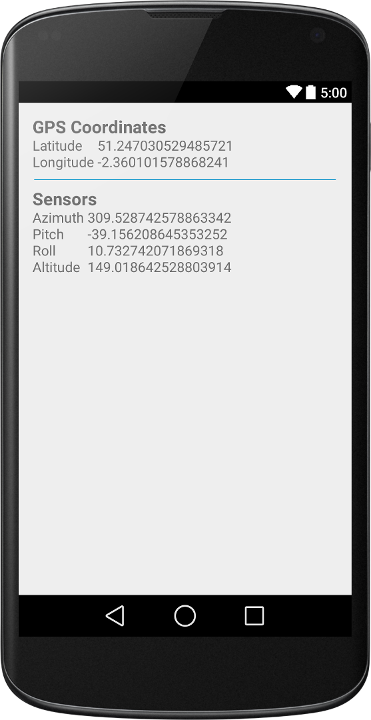
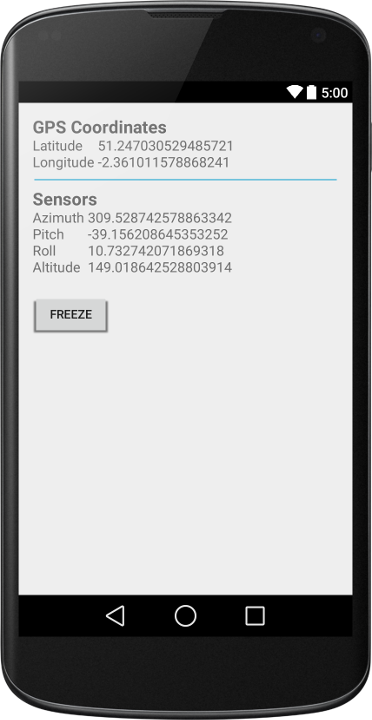
Added freeze button.

diff --git a/app/src/main/java/com/itoskana/orientation/OrientationActivity.java b/app/src/main/java/com/itoskana/orientation/OrientationActivity.java
@@ -15,6 +15,8 @@ import android.location.LocationManager;
 import android.os.Bundle;
 import android.view.Menu;
 import android.view.MenuItem;
+import android.view.View;
+import android.widget.Button;
 import android.widget.TextView;
 
 
@@ -41,10 +43,13 @@ public class OrientationActivity extends Activity {
     private MovingAverage roll;
     private MovingAverage altitude;
 
+    private Button bt_freeze;
+    private boolean frozen;
+
     @Override
     protected void onCreate(Bundle savedInstanceState) {
         super.onCreate(savedInstanceState);
-        setContentView(R.layout.activity_gps);
+        setContentView(R.layout.activity_orientation);
 
         // GPS
         tv_latitude = (TextView) findViewById(R.id.TextView_gps_latitude);
@@ -54,8 +59,10 @@ public class OrientationActivity extends Activity {
 
         location_listener = new LocationListener() {
             public void onLocationChanged(Location location) {
-                tv_latitude.setText(String.valueOf(location.getLatitude()));
-                tv_longitude.setText(String.valueOf(location.getLongitude()));
+                if(frozen == false) {
+                    tv_latitude.setText(String.valueOf(location.getLatitude()));
+                    tv_longitude.setText(String.valueOf(location.getLongitude()));
+                }
             }
 
             public void onStatusChanged(String provider, int status, Bundle extras) {
@@ -92,7 +99,9 @@ public class OrientationActivity extends Activity {
             public void onSensorChanged(SensorEvent event) {
                 if(event.sensor.getType() == Sensor.TYPE_PRESSURE) {
                     altitude.input(SensorManager.getAltitude(SensorManager.PRESSURE_STANDARD_ATMOSPHERE, event.values[0]));
-                    tv_altitude.setText(String.valueOf(altitude.getAverage()));
+
+                    if(frozen == false)
+                        tv_altitude.setText(String.valueOf(altitude.getAverage()));
                 }
 
                 if(event.sensor.getType() == Sensor.TYPE_ACCELEROMETER)
@@ -111,11 +120,14 @@ public class OrientationActivity extends Activity {
 
                         SensorManager.getOrientation(r, orientation);
                         azimuth.input(orientation[0]);
-                        tv_azimuth.setText(String.valueOf((azimuth.getAverage() * 180 / Math.PI) + 180));
                         pitch.input(orientation[1]);
-                        tv_pitch.setText(String.valueOf(pitch.getAverage() * 180 / Math.PI));
                         roll.input(orientation[2]);
-                        tv_roll.setText(String.valueOf(roll.getAverage() * 180 / Math.PI));
+
+                        if(frozen == false) {
+                            tv_azimuth.setText(String.valueOf((azimuth.getAverage() * 180 / Math.PI) + 180));
+                            tv_pitch.setText(String.valueOf(pitch.getAverage() * 180 / Math.PI));
+                            tv_roll.setText(String.valueOf(roll.getAverage() * 180 / Math.PI));
+                        }
                     }
                 }
             }
@@ -124,6 +136,22 @@ public class OrientationActivity extends Activity {
             public void onAccuracyChanged(Sensor sensor, int accuracy) {
             }
         };
+
+        // Freeze / Unfreeze button
+        frozen = false;
+        bt_freeze = (Button) findViewById(R.id.Button_freeze);
+        bt_freeze.setOnClickListener(new View.OnClickListener() {
+            @Override
+            public void onClick(View v) {
+                frozen = !frozen;
+
+                if(frozen == false)
+                    bt_freeze.setText(getString(R.string.freeze));
+
+                else
+                    bt_freeze.setText(getString(R.string.unfreeze));
+            }
+        });
     }
 
     @Override
